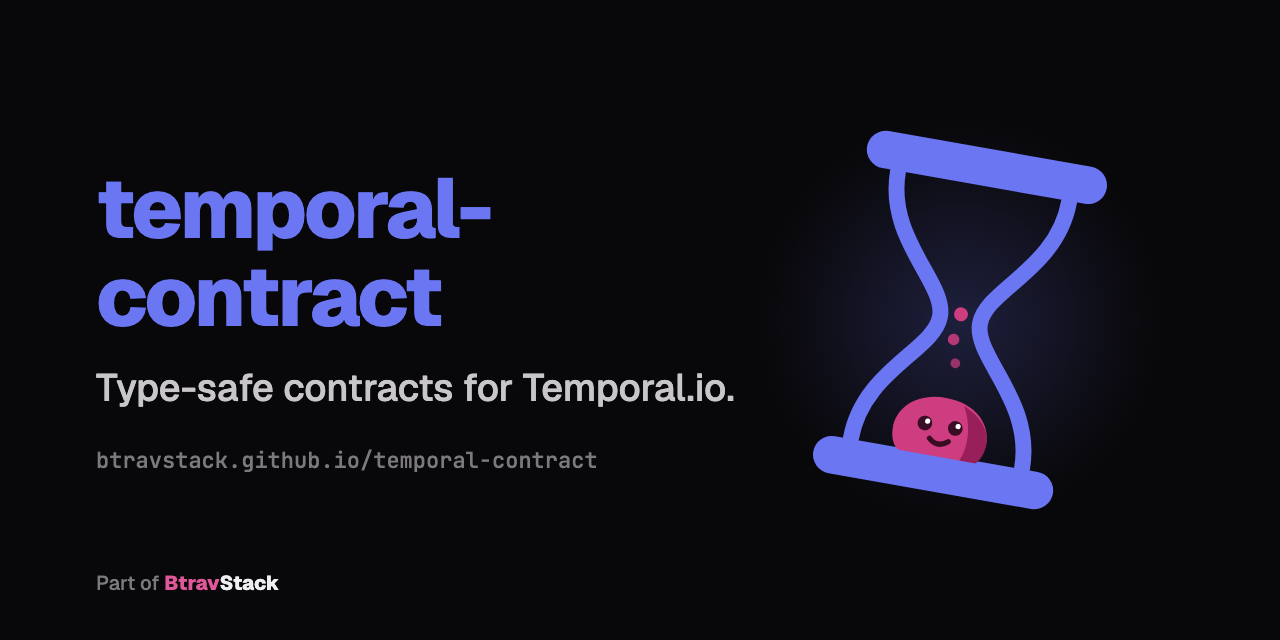
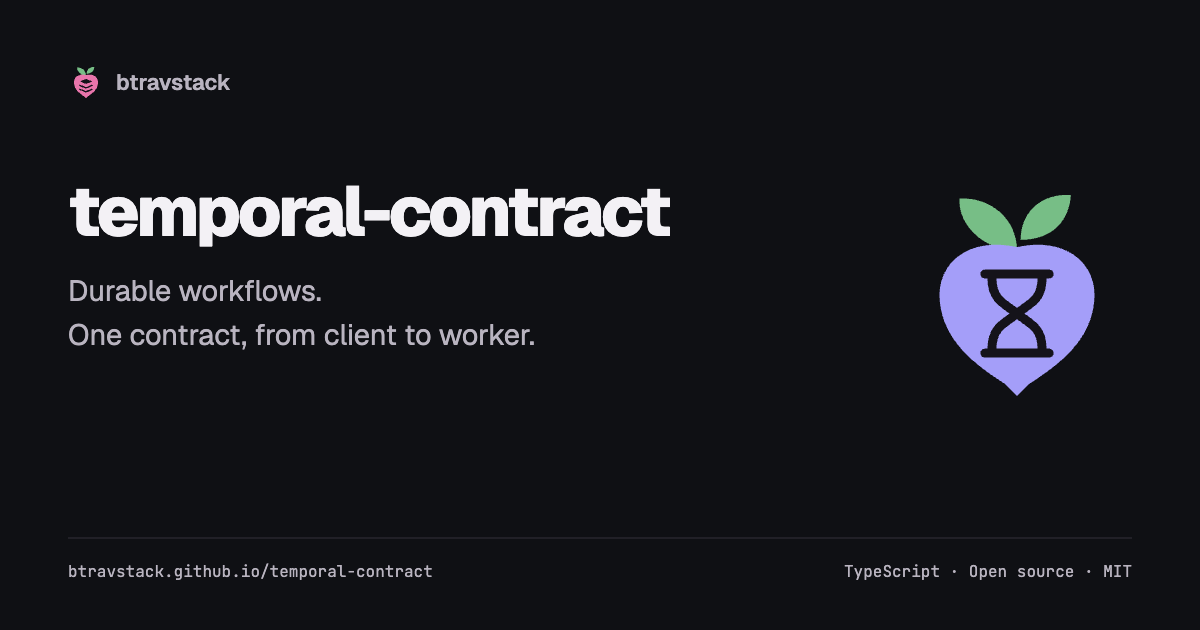
docs: refresh project branding

diff --git a/docs/.vitepress/theme/custom.css b/docs/.vitepress/theme/custom.css
@@ -12,10 +12,7 @@
   --vp-home-hero-name-color: var(--text-accent);
 }
 
-/* Home-hero background glyph — the project's motif behind the hero (a durable
- * timeline with a clock). Painted in --accent through a mask, so it always
- * tracks the accent token; the SVG is base64-encoded so no CSS minifier can
- * mangle it. */
+/* Use the project silhouette as the decorative hero backdrop. */
 .VPHome {
   position: relative;
   isolation: isolate;
@@ -32,10 +29,8 @@
   right: var(--btv-gutter);
   aspect-ratio: 500 / 300;
   background-color: var(--accent);
[1 lines of base64/hex data omitted]
-    no-repeat top center / contain;
[1 lines of base64/hex data omitted]
-    no-repeat top center / contain;
+  -webkit-mask: url("/logo-mono.svg") no-repeat top center / contain;
+  mask: url("/logo-mono.svg") no-repeat top center / contain;
   opacity: 0.14;
   pointer-events: none;
   z-index: -1;

diff --git a/docs/.vitepress/config.ts b/docs/.vitepress/config.ts
@@ -270,7 +270,7 @@ export default withMermaid(
     },
 
     head: [
-      ["link", { rel: "icon", type: "image/svg+xml", href: `${BASE}logo.svg` }],
+      ["link", { rel: "icon", type: "image/svg+xml", href: `${BASE}favicon.svg` }],
       // SEO keywords meta tags
       [
         "meta",

diff --git a/docs/branding/README.md b/docs/branding/README.md
@@ -1,0 +1,18 @@
+# temporal-contract branding
+
+These assets belong to the btravstack family of project marks. The canonical
+source is [the website brand generator](https://github.com/btravstack/btravstack.github.io/blob/main/scripts/generate-brand.mjs).
+
+To refresh them, run the generator in that repository and copy the generated
+`apps/website/public/logos/temporal-contract-{light,dark,mono,favicon}.svg`
+files into `docs/public/` as `logo-light.svg`, `logo-dark.svg`, `logo-mono.svg`
+and `favicon.svg`. Keep `logo.svg` identical to `logo-light.svg` as the fallback.
+The matching social card is `docs/public/og-temporal-contract.png` (1200 × 630),
+rendered from the [editable social-card template](https://github.com/btravstack/btravstack.github.io/blob/main/branding/social-card.html)
+with `?project=temporal-contract`.
+
+The README, documentation navigation and hero select a mark for the reader's
+color scheme. A dedicated compact mark serves as the favicon. All assets are
+committed locally so documentation builds and deployed pages remain independent
+of the website repository. The docs configuration applies the current deployment
+base to favicon and social-card URLs, including prerelease deployments.

diff --git a/README.md b/README.md
@@ -1,6 +1,10 @@
 <div align="center">
 
-<img src="docs/public/logo.svg" alt="temporal-contract" width="128" height="128" />
+<picture>
+  <source media="(prefers-color-scheme: dark)" srcset="docs/public/logo-dark.svg" />
+  <source media="(prefers-color-scheme: light)" srcset="docs/public/logo-light.svg" />
+  <img src="docs/public/logo.svg" alt="temporal-contract logo" width="128" height="128" />
+</picture>
 
 # temporal-contract
 

diff --git a/docs/index.md b/docs/index.md
@@ -10,7 +10,7 @@ hero:
   image:
     light: /logo-light.svg
     dark: /logo-dark.svg
-    alt: temporal-contract
+    alt: temporal-contract logo
   actions:
     - theme: brand
       text: Your first workflow
